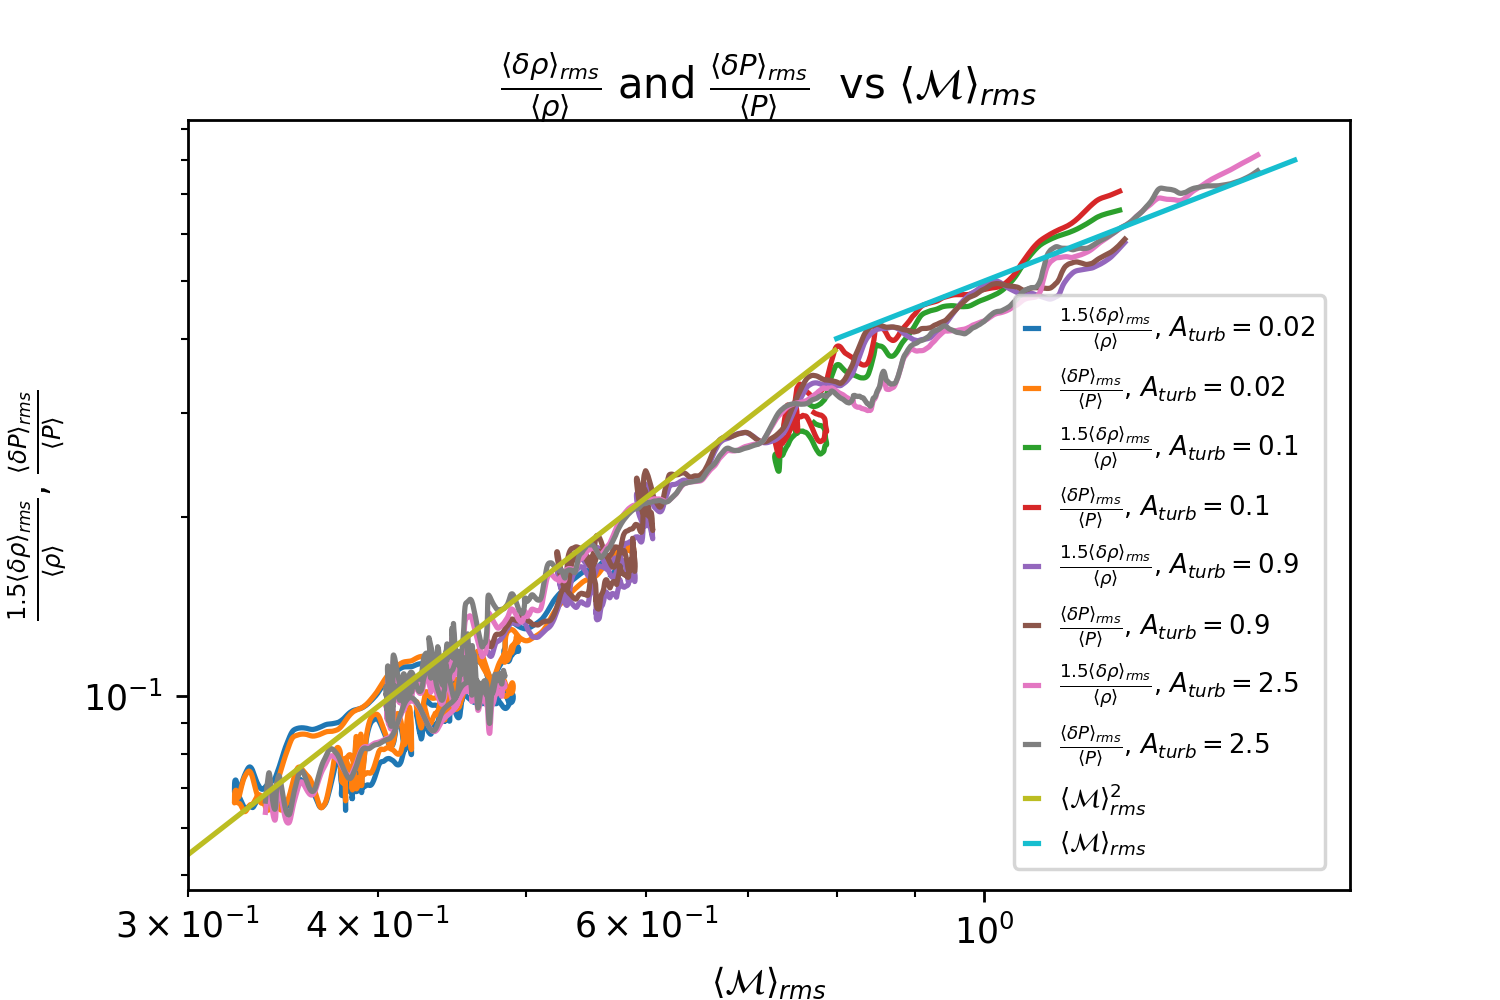
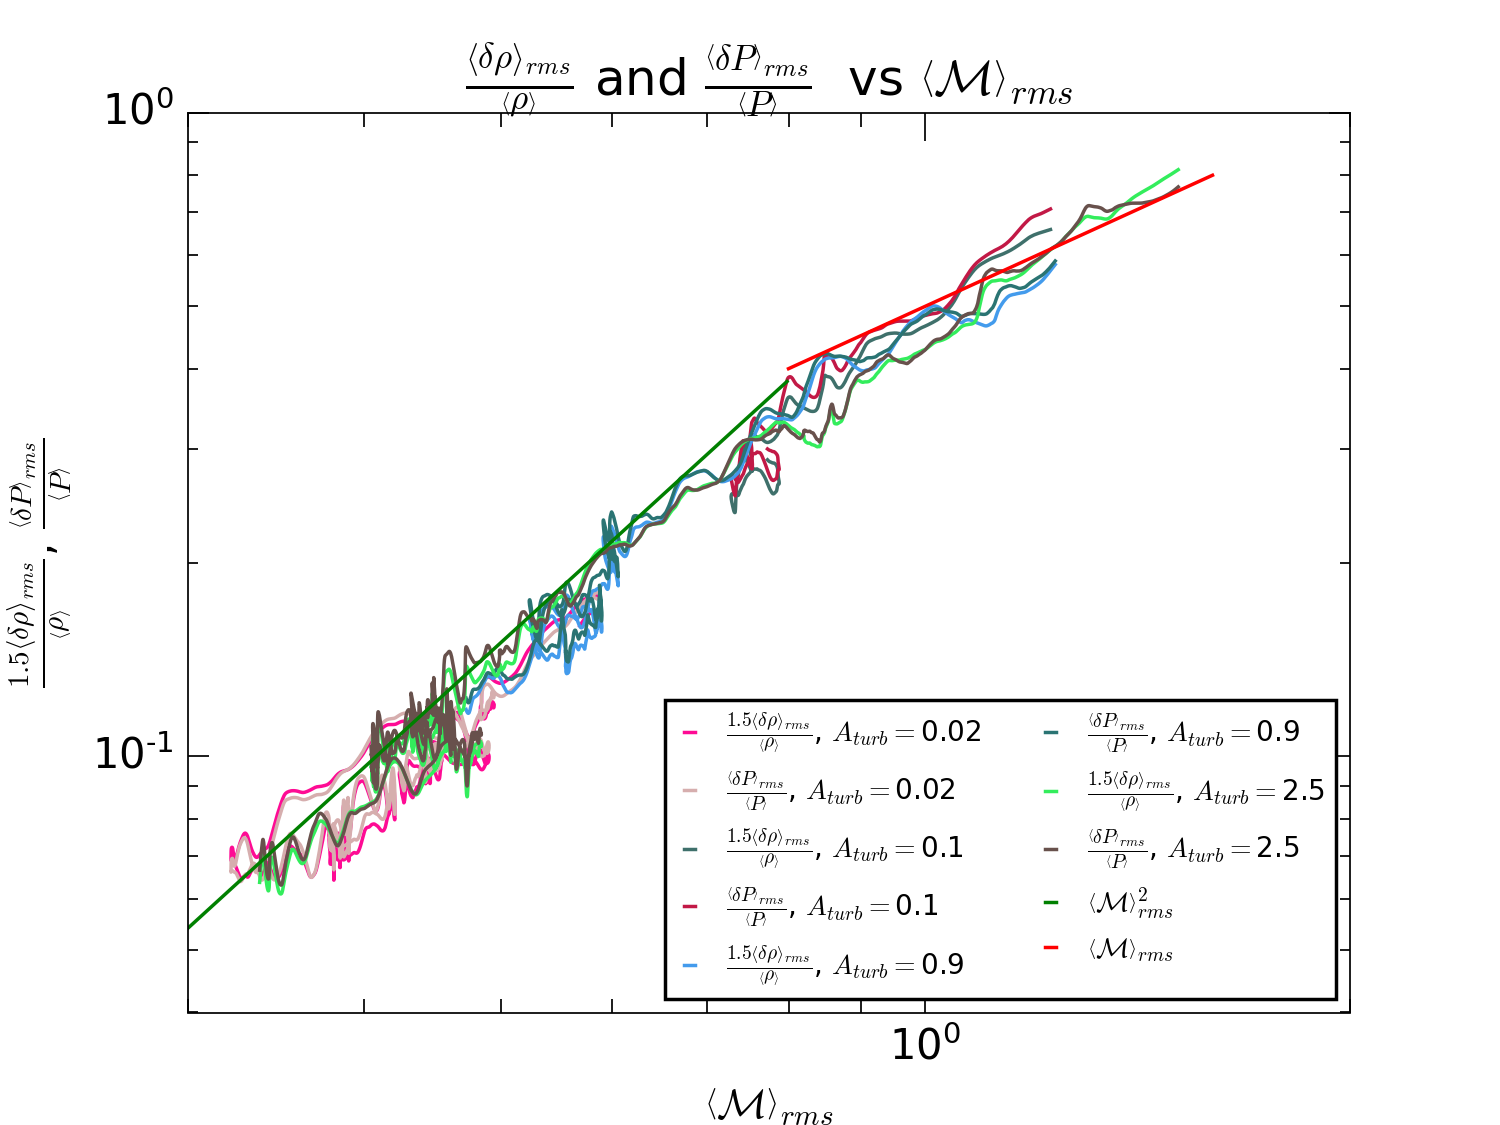
Modified plots

diff --git a/All_analysis/diff_spectra.py b/All_analysis/diff_spectra.py
@@ -5,11 +5,16 @@ import time
 from scipy.optimize import curve_fit
 from scipy import stats
 import pylab as plot
-params = {'legend.fontsize':8.0,
+plt.style.use('classic')
+params = {'legend.fontsize':10.0,
           'legend.handlelength': 0.5}
+plt.rcParams['axes.linewidth'] = 1.5
+plt.rcParams['xtick.major.size'] = 8
+plt.rcParams['xtick.minor.size'] = 4
+plt.rcParams['ytick.major.size'] = 6
+plt.rcParams['ytick.minor.size'] = 3
+plt.rcParams['ytick.minor.size'] = 3
 plot.rcParams.update(params)
-
-
 
 #Compute how long the simulation takes
 start_time = time.time()
@@ -46,7 +51,7 @@ for i in xrange(0, start.size):
 	   k1[filenumber-start[i]]=datax1[:,0]
 	   Ek1[filenumber-start[i]]=datax1[:,1]+datax2[:,1]+datax3[:,1]
 #Calculate average energy injection
-	   epsilon=np.average(data1[(data1[:,0]>time_step*(filenumber-start[i]))*(data1[:,0]<time_step*(filenumber+1-start[i]))][:,1])
+	   epsilon=np.average(data1[(data1[:,0]>time_step*(filenumber-start[i]))*(data1[:,0]<time_step*(filenumber-start[i])+2e-1)][:,1])
 	   print epsilon
 #Calculate average speed of sound
   	   cs=np.average(data1[(data1[:,0]>time_step*(filenumber-start[i]))*(data1[:,0]<time_step*(filenumber+1-start[i]))][:,2])
@@ -82,26 +87,25 @@ for i in xrange(0, start.size):
 	del_Ek_comp2=np.std(Ekcomp2,0)
 #Here we plot the compensated power spectrum, multiplying E(k) with k^(5/3)
 	if (i==2 or i==0): 
-		ax1.errorbar(k1[1:-10],Ek_comp1[1:-10],yerr=del_Ek_comp1[1:-10],fmt='*-', label=r'$\epsilon^{-2/3}k^{5/3}V_k^2$, $\mathcal{M}=$'+str(mach[i]))
-		ax1.errorbar(k2[1:-10],Ek_comp2[1:-10],yerr=del_Ek_comp2[1:-10],fmt='d-', label=r'$\epsilon^{-2/3}k^{5/3}\rho_k^2$, $\mathcal{M}= =$'+str(mach[i]))
+		ax1.errorbar(k1[1:-10],Ek_comp1[1:-10],yerr=del_Ek_comp1[1:-10],fmt='*', label=r'$\epsilon_v^{-2/3}k^{5/3}E_v(k)$, $\mathcal{M}=$'+str(mach[i]), markeredgecolor='None')
+		ax1.errorbar(k2[1:-10],Ek_comp2[1:-10],yerr=del_Ek_comp2[1:-10],fmt='d', label=r'$\epsilon_v^{-2/3}k^{5/3}E_{\rho}(k)$, $\mathcal{M}= $'+str(mach[i]), markeredgecolor='None')
 	#Plot ratio
 	ax2.plot(k1[1:-10],Ek2[1:-10]/Ek1[1:-10], label='$\mathcal{M}=$'+str(mach[i]))
 ax1.set_yscale('log')
 ax1.set_xscale('log')
-ax1.tick_params(direction='out', length=6, width=2, labeltop=True)
 #ax1.set_xlabel('k')
-ax1.set_ylabel('E(k)*$k^{5/3}*\epsilon_V^{-2/3}$')
+ax1.set_ylabel('$E(k)k^{5/3}\epsilon_V^{-2/3}$')
 # Put a legend to the right of the current axis
 ax1.legend(loc='lower right', bbox_to_anchor=(0.88, 0.0), ncol=2)
 #ax1.set_title(r'Compensated $E_{\rho}(k)$ and $E_V(k)$ vs k for $256^3$' )
+ax1.set_xlim(1e1, 2e3)
 
 ax2.set_yscale('log')
 ax2.set_xscale('log')
-ax2.tick_params(direction='out', length=6, width=2, labeltop=True)
 ax2.set_xlabel('k')
 ax2.set_ylabel(r'$\frac{\rho_k^2}{\left<\rho\right>^2}/\frac{V_k^2}{c_s^2}$')
-ax2.set_ylim(2.e-3,)
-ax2.legend(loc='center left', bbox_to_anchor=(0, 0.95), ncol=6)
+ax2.set_ylim(2.e-3,3e-1)
+ax2.legend(loc='center left', bbox_to_anchor=(0, 0.9), ncol=3)
 #ax2.set_title(r'Ratio of velocity and density power spectra' )
 plt.savefig('Ratio_rho-vel_lowk_256.png',dpi=250)
 

diff --git a/rho-mach/density_mach_256.py b/rho-mach/density_mach_256.py
@@ -1,8 +1,17 @@
 import numpy as np
 import matplotlib.pyplot as plt
 import pylab as plot
-params = {'legend.fontsize':7.5,
-          'legend.handlelength': 0.5}
+import seaborn as sns
+
+plt.style.use('classic')
+params = {'legend.fontsize':8,
+          'legend.handlelength': 1}
+plt.rcParams['axes.linewidth'] = 0.5
+plt.rcParams['xtick.major.size'] = 8
+plt.rcParams['xtick.minor.size'] = 4
+plt.rcParams['ytick.major.size'] = 6
+plt.rcParams['ytick.minor.size'] = 3
+plt.rcParams['ytick.minor.size'] = 3
 plot.rcParams.update(params)
 
 #Declare all parameters and filenames, file location
@@ -11,12 +20,18 @@ plot.rcParams.update(params)
 amp=np.array((0.020,0.1,0.9,2.5))
 t_start=np.array((5.0,2.0,1.0,0.5))
 #t_start sets time at which statistical equilibrium has been reached
+
+NUM_COLORS = 20
+LINE_STYLES = ['solid', 'dashed', 'dashdot', 'dotted']
+NUM_STYLES = len(LINE_STYLES)
+
+clrs = sns.color_palette('husl', n_colors=NUM_COLORS)  # a list of RGB tuples
+
 fig, ax = plt.subplots()
 for i1 in xrange(0,np.shape(amp)[0]):
 #	fig, ax = plt.subplots(1)
 	filedir='/mnt/lustre/ug4/ugrajs/fiducial_runs/256/amp'+str(int(amp[i1]*1000)).rjust(4,'0')+'/'
 	file=filedir+'pluto_hst.out'
-	fname = open(file,'rt')
 	data = np.loadtxt(file, skiprows=1)
 	#Load data
 	for i in xrange(0,data.shape[0]):
@@ -25,9 +40,11 @@ for i1 in xrange(0,np.shape(amp)[0]):
 	data=data[:][i:]
 	#Ignore data before statistical equilibrium state
 	#Plot the data 
-	ax.plot(data[:,11],1.5*data[:,12],label=r'$\frac{1.5\left<\delta\rho\right>_{rms}}{\left<\rho\right>}$, $A_{turb}=$'+str(amp[i1]))
-	ax.plot(data[:,11],data[:,13],label=r'$\frac{\left<\delta P\right>_{rms}}{\left< P\right>}$, $A_{turb}=$'+str(amp[i1]))
-fig.set_size_inches(6, 4)
+	line1 =ax.plot(data[:,11],1.5*data[:,12],label=r'$\frac{1.5\left<\delta\rho\right>_{rms}}{\left<\rho\right>}$, $A_{turb}=$'+str(amp[i1]))
+	line1[0].set_color(np.random.rand(3))
+	line2=ax.plot(data[:,11],data[:,13],label=r'$\frac{\left<\delta P\right>_{rms}}{\left< P\right>}$, $A_{turb}=$'+str(amp[i1]))
+	line2[0].set_color(np.random.rand(3))
+fig.set_size_inches(6, 4.5)
 ax.set_xlabel(r'$\left< \mathcal{M}\right>_{rms}$')
 ax.set_ylabel(r'$\frac{1.5\left<\delta\rho\right>_{rms}}{\left<\rho\right>}$, $\frac{\left<\delta P\right>_{rms}}{\left< P\right>}$')
 x1=np.arange(0.3,0.8,0.002)
@@ -37,10 +54,12 @@ ax.plot(y,0.5*y**1,label=r'$\left< \mathcal{M}\right>_{rms}$')
 ax.set_yscale('log')
 ax.set_xscale('log')
 ax.set_title(r'$\frac{\left<\delta\rho\right>_{rms}}{\left<\rho\right>}$ and $\frac{\left<\delta P\right>_{rms}}{\left< P\right>}$  vs $\left< \mathcal{M}\right>_{rms}$')
-ax.set_xlim(0.3,)
+ax.set_xlim(0.3,2)
+ax.set_ylim(0.04,1)
 # Shrink current axis by 20%
 box = ax.get_position()
 ax.set_position([box.x0, box.y0, box.width, box.height])
 # Put a legend to the bottom of the current axis
-ax.legend(loc='center left', bbox_to_anchor=(0.7, 0.4), ncol=1)
+ax.legend(loc='lower right', bbox_to_anchor=(1.0, 0.), ncol=2)
 plt.savefig('rho-mach-256.png',dpi=250)
+
